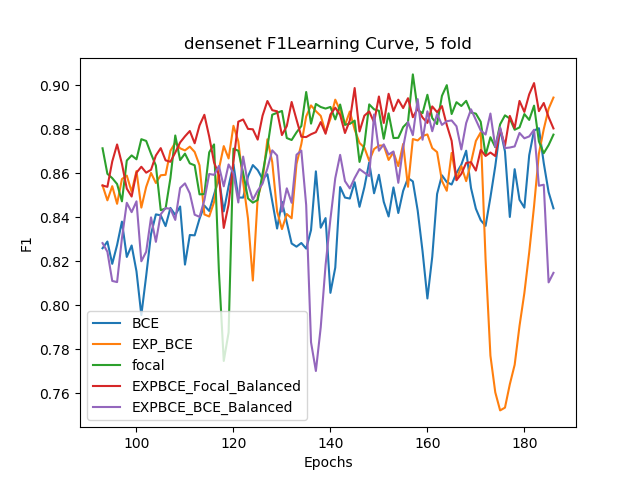
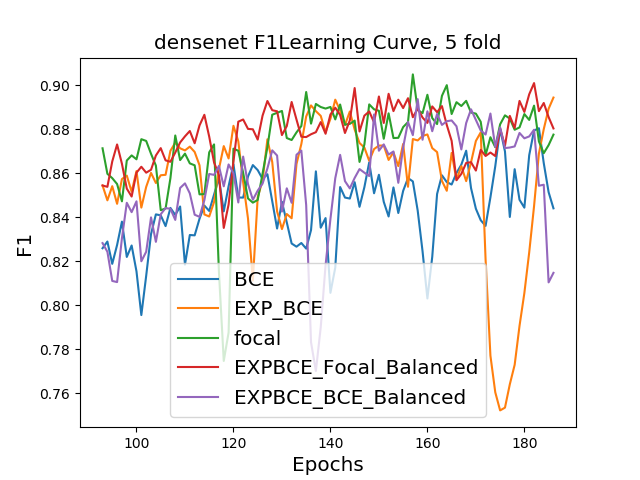
update images

diff --git a/Theory/FLgrad.py b/Theory/FLgrad.py
@@ -9,13 +9,18 @@ y_pos = 2*(1-x)*np.log(x)-(1-x)**2/x
 y_neg = -2*x*np.log(1-x)+x**2/(1-x)
 fig, ax = plt.subplots()
 
-ax.plot(x, y_pos, label=r'$2(1-\hat{y}_i)log(\hat{y}_i)-\frac{(1-\hat{y}_i)^2}{\hat{y}_i}$ (gradient for $-(1-\hat{y}_i)^2*log(\hat{y}_i)$)', lw=2)
-ax.plot(x, y_neg, label=r'$-2\hat{y}_i log(1-\hat{y}_i)+\frac{\hat{y}_i^2}{(1-\hat{y}_i)}$ (gradient for $-(\hat{y}_i)^2*log(1-\hat{y}_i)$)', lw=2)
+ax.plot(x, y_pos, label=r'$2(1-\hat{y}_i)log(\hat{y}_i)-\frac{(1-\hat{y}_i)^2}{\hat{y}_i}$'
+'\n'
+'(gradient for $-(1-\hat{y}_i)^2*log(\hat{y}_i)$)', lw=2)
+ax.plot(x, y_neg, label=r'$-2\hat{y}_i log(1-\hat{y}_i)+\frac{\hat{y}_i^2}{(1-\hat{y}_i)}$ '
+'\n'
+'(gradient for $-(\hat{y}_i)^2*log(1-\hat{y}_i)$)', lw=2)
 
-ax.set(xlim=[-0.05, 1.05], title='Focal loss theoretical learning curve gradient')
-ax.legend(loc='lower right')	
-ax.set_xlabel('$\hat{y}_i$')
-ax.set_ylabel('loss')
+ax.set(xlim=[-0.05, 1.05])
+ax.set_title('Focal loss theoretical learning curve gradient', fontsize = 'x-large')
+ax.legend(loc='lower right', fontsize = 'x-large')	
+ax.set_xlabel('$\hat{y}_i$', fontsize = 'x-large')
+ax.set_ylabel('loss', fontsize = 'x-large')
 Grad_png_file = 'FLgrad.png'
 plt.savefig(Grad_png_file)
 

diff --git a/F1learingRate.py b/F1learingRate.py
@@ -161,14 +161,14 @@ def load_f1_log(args, CViter):
 
 def plot_F1learningCurve(args, CV_iters):
 	learningCurveFile = os.path.join(args.model_dir, args.network)
-	learningCurveFile = os.path.join(learningCurveFile, '{network}-CV{cv_iter}-F1LearningCurve4.PNG'.format(network = args.network, cv_iter = 5))
+	learningCurveFile = os.path.join(learningCurveFile, '{network}-CV{cv_iter}-F1LearningCurve1.PNG'.format(network = args.network, cv_iter = 5))
 	data = load_f1_log(args, CV_iters)
 	
-	plt.plot(range(int(len(data)/10+len(data)/2),len(data)),data[int(len(data)/10+len(data)/2):])
-	plt.legend(get_loss_list())
-	plt.ylabel('F1')
-	plt.xlabel('Epochs')
-	plt.title('{} F1Learning Curve, {} fold'.format(args.network,  5))
+	plt.plot(range(int(len(data)/10)),data[:int(len(data)/10)])
+	plt.legend(get_loss_list(), fontsize = 'x-large')
+	plt.ylabel('F1', fontsize = 'x-large')
+	plt.xlabel('Epochs', fontsize = 'x-large')
+	plt.title('{} F1Learning Curve, {} fold'.format(args.network,  5), fontsize = 'x-large')
 	logging.warning('    Saving Learning Curve to {}\n'.format(learningCurveFile))
 	plt.savefig(learningCurveFile)
 	print(int(len(data)/10),int(len(data)/5),int(len(data)/10+len(data)/2),len(data))

diff --git a/Theory/expcefocagrad.py b/Theory/expcefocagrad.py
@@ -4,18 +4,21 @@ import numpy as np
 import matplotlib.pyplot as plt
 
 
-x = np.linspace(0.01, 0.99, 99)
+x = np.linspace(0.00001, 0.99999, 99999)
 y_pos = - 1/x**2
 y_neg = -2*x*np.log(1-x)+x**2/(1-x)
 fig, ax = plt.subplots()
 
 ax.plot(x, y_pos, label=r'$-\frac{1}{\hat{y}_i^2}$ (gradient for $(\frac{1}{\hat{y}_i}-1)$)', lw=2)
-ax.plot(x, y_neg, label=r'$-2\hat{y}_i log(1-\hat{y}_i)+\frac{\hat{y}_i^2}{(1-\hat{y}_i)}$ (gradient for $-(\hat{y}_i)^2*log(1-\hat{y}_i)$)', lw=2)
+ax.plot(x, y_neg, label=r'$-2\hat{y}_i log(1-\hat{y}_i)+\frac{\hat{y}_i^2}{(1-\hat{y}_i)}$ '
+			"\n"
+			r'(gradient for $-(\hat{y}_i)^2*log(1-\hat{y}_i)$)', lw=2)
 
-ax.set(xlim=[-0.05, 1.05], title='B-EXP_BCE theoretical learning curve gradient')
-ax.legend(loc='lower right')	
-ax.set_xlabel('$\hat{y}_i$')
-ax.set_ylabel('loss')
+ax.set(xlim=[-0.05, 1.05], ylim= [-100, 60])
+ax.set_title('F-EXP_BCE theoretical learning curve gradient', fontsize = 'x-large')
+ax.legend(loc='lower right', fontsize = 'x-large')	
+ax.set_xlabel('$\hat{y}_i$', fontsize = 'x-large')
+ax.set_ylabel('loss', fontsize = 'x-large')
 Grad_png_file = 'expcefocagrad.png'
 plt.savefig(Grad_png_file)
 

diff --git a/Theory/CEFLEXPgrad.py b/Theory/CEFLEXPgrad.py
@@ -4,7 +4,7 @@ import numpy as np
 import matplotlib.pyplot as plt
 
 
-x = np.linspace(0.3, 0.99, 99)
+x = np.linspace(0.01, 0.99, 99)
 y_BCE = - 1/x
 y_FL = 2*(1-x)*np.log(x)-(1-x)**2/x
 y_pos = - 1/x**2
@@ -14,10 +14,11 @@ ax.plot(x, y_BCE, label=r'BCE Gradient ($-\frac{1}{\hat{y}_i}$)', lw=2)
 ax.plot(x, y_FL, label=r'Focal Gradient ($2(1-\hat{y}_i)log(\hat{y}_i)-\frac{(1-\hat{y}_i)^2}{\hat{y}_i}$)', lw=2)
 ax.plot(x, y_pos, label=r'EXP_BCE Gradient ($-\frac{1}{\hat{y}_i^2}$)', lw=2)
 
-ax.set(xlim=[-0.05, 1.05], title='BCE, Focal, EXP_BCE loss gradient comparison 0.3 -- 1')
-ax.legend(loc='lower right')	
-ax.set_xlabel('$\hat{y}_i$')
-ax.set_ylabel('loss')
-LC_png_file = 'CEFLEXPgrad3-1.PNG'
+ax.set(xlim=[-0.05, 1.05], ylim = [-300,1])
+ax.set_title('BCE, Focal, EXP_BCE loss gradient comparison 0 -- 1', fontsize = 'x-large')
+ax.legend(loc='lower right', fontsize = 'x-large')	
+ax.set_xlabel('$\hat{y}_i$', fontsize = 'x-large')
+ax.set_ylabel('loss', fontsize = 'x-large')
+LC_png_file = 'CEFLEXPgrad0-1.PNG'
 plt.savefig(LC_png_file)
 

diff --git a/Theory/expcebcegrad.py b/Theory/expcebcegrad.py
@@ -4,7 +4,7 @@ import numpy as np
 import matplotlib.pyplot as plt
 
 
-x = np.linspace(0.01, 0.99, 99)
+x = np.linspace(0.00001, 0.99999, 99999)
 y_pos = - 1/x**2
 y_neg = 1/(1-x)
 fig, ax = plt.subplots()
@@ -12,10 +12,11 @@ fig, ax = plt.subplots()
 ax.plot(x, y_pos, label=r'$-\frac{1}{\hat{y}_i^2}$ (gradient for $(\frac{1}{\hat{y}_i}-1)$)', lw=2)
 ax.plot(x, y_neg, label=r'$\frac{1}{1-\hat{y}_i}$ (gradient for $-log(1-\hat{y}_i)$)', lw=2)
 
-ax.set(xlim=[-0.05, 1.05], title='B-EXP_BCE theoretical learning curve gradient')
-ax.legend(loc='lower right')	
-ax.set_xlabel('$\hat{y}_i$')
-ax.set_ylabel('loss')
+ax.set(xlim=[-0.05, 1.05], ylim = [-100, 60])
+ax.set_title('B-EXP_BCE theoretical learning curve gradient', fontsize = 'x-large')
+ax.legend(loc='lower right', fontsize = 'x-large')	
+ax.set_xlabel('$\hat{y}_i$', fontsize = 'x-large')
+ax.set_ylabel('loss', fontsize = 'x-large')
 Grad_png_file = 'expcebcegrad.png'
 plt.savefig(Grad_png_file)
 

diff --git a/Theory/CEFLEXP.py b/Theory/CEFLEXP.py
@@ -4,7 +4,7 @@ import numpy as np
 import matplotlib.pyplot as plt
 
 
-x = np.linspace(0.3, 0.99, 99)
+x = np.linspace(0.01, 0.3, 99)
 y_BCE = - np.log(x)
 y_FL = - (1-x)**2*np.log(x)
 y_pos = 1/x-1
@@ -14,10 +14,11 @@ ax.plot(x, y_BCE, label=r'BCE ($-log(\hat{y}_i)$)', lw=2)
 ax.plot(x, y_FL, label=r'Focal ($-(1-\hat{y}_i)^2*log(\hat{y}_i)$)', lw=2)
 ax.plot(x, y_pos, label=r'EXP_BCE ($\frac{1}{\hat{y}_i}-1$)', lw=2)
 
-ax.set(xlim=[-0.05, 1.05], title='BCE, Focal, EXP_BCE loss comparison 0.3 -- 1')
-ax.legend(loc='upper right')	
-ax.set_xlabel('$\hat{y}_i$')
-ax.set_ylabel('loss')
-LC_png_file = 'CEFLEXP3-1.PNG'
+ax.set(xlim=[-0.05, 0.4], ylim=[-1,20])
+ax.set_title('BCE, Focal, EXP_BCE loss comparison 0 -- 0.3', fontsize = 'x-large')
+ax.legend(loc='upper right', fontsize = 'x-large')	
+ax.set_xlabel('$\hat{y}_i$', fontsize = 'x-large')
+ax.set_ylabel('loss', fontsize = 'x-large')
+LC_png_file = 'CEFLEXP0-3.PNG'
 plt.savefig(LC_png_file)
 

diff --git a/Theory/BCEGradient.py b/Theory/BCEGradient.py
@@ -4,7 +4,7 @@ import numpy as np
 import matplotlib.pyplot as plt
 
 
-x = np.linspace(0.01, 0.99, 99)
+x = np.linspace(0.00001, 0.99999, 99999)
 y_pos = - 1/x
 y_neg = 1/(1-x)
 fig, ax = plt.subplots()
@@ -12,10 +12,11 @@ fig, ax = plt.subplots()
 ax.plot(x, y_pos, label=r'$-\frac{1}{\hat{y}_i}$ (gradient for $-log(\hat{y}_i)$)', lw=2)
 ax.plot(x, y_neg, label=r'$\frac{1}{1-\hat{y}_i}$ (gradient for $-log(1-\hat{y}_i)$)', lw=2)
 
-ax.set(xlim=[-0.05, 1.05], title='BCE theoretical learning curve gradient')
-ax.legend(loc='lower right')	
-ax.set_xlabel('$\hat{y}_i$')
-ax.set_ylabel('loss')
+ax.set(xlim=[-0.05, 1.05], ylim= [-60,60])
+ax.set_title('BCE theoretical learning curve gradient', fontsize = 'x-large')
+ax.legend(loc='lower right', fontsize = 'x-large')	
+ax.set_xlabel('$\hat{y}_i$', fontsize = 'x-large')
+ax.set_ylabel('loss', fontsize = 'x-large')
 Grad_png_file = 'BCEGradient.png'
 plt.savefig(Grad_png_file)
 

diff --git a/Theory/FL.py b/Theory/FL.py
@@ -4,7 +4,7 @@ import numpy as np
 import matplotlib.pyplot as plt
 
 
-x = np.linspace(0.01, 0.99, 99)
+x = np.linspace(0.00001, 0.99999, 99999)
 y_pos = - (1-x)**2*np.log(x)
 y_neg = - x**2*np.log(1-x)
 fig, ax = plt.subplots()
@@ -12,10 +12,11 @@ fig, ax = plt.subplots()
 ax.plot(x, y_pos, label=r'$-(1-\hat{y}_i)^2*log(\hat{y}_i)$', lw=2)
 ax.plot(x, y_neg, label=r'$-(\hat{y}_i)^2*log(1-\hat{y}_i)$', lw=2)
 
-ax.set(xlim=[-0.05, 1.05], title='Focal Loss theoretical learning curve')
-ax.legend(loc='upper center')	
-ax.set_xlabel('$\hat{y}_i$')
-ax.set_ylabel('loss')
+ax.set(xlim=[-0.05, 1.05], ylim = [-1, 12])
+ax.set_title('Focal Loss theoretical learning curve', fontsize = 'x-large')
+ax.legend(loc='upper center', fontsize = 'x-large')	
+ax.set_xlabel('$\hat{y}_i$', fontsize = 'x-large')
+ax.set_ylabel('loss', fontsize = 'x-large')
 LC_png_file = 'FL.png'
 plt.savefig(LC_png_file)
 

diff --git a/Evaluation_Matix.py b/Evaluation_Matix.py
@@ -237,10 +237,11 @@ def plot_learningCurve(args, CV_iters):
 		tprs_lower = np.maximum(mean_loss - std_loss, 0)[:int(1001/dev)]
 		ax.fill_between(mean_Epoch[:int(1001/dev)], tprs_lower, tprs_upper, color = color[loss], alpha=.2)
 			
-	ax.set_ylabel('AUC')
-	ax.set_xlabel('Epochs')
-	ax.legend(loc="lower right")
-	ax.set(xlim=[-0.2, min_len/dev-1], title='{} Learning Curve, {} fold 1/{}'.format(args.network, CV_iters, dev))
+	ax.set_ylabel('AUC', fontsize = 'x-large')
+	ax.set_xlabel('Epochs', fontsize = 'x-large')
+	ax.legend(loc="lower right", fontsize = 'x-large')
+	ax.set(xlim=[-0.2, min_len/dev-1])
+	ax.set_title('{} Learning Curve, {} fold 1/{}'.format(args.network, CV_iters, dev), fontsize = 'x-large')
 	logging.warning('    Saving Learning Curve to {}\n'.format(learningCurveFile))
 	plt.savefig(learningCurveFile)
 

diff --git a/Theory/BCE.py b/Theory/BCE.py
@@ -4,7 +4,7 @@ import numpy as np
 import matplotlib.pyplot as plt
 
 
-x = np.linspace(0.01, 0.99, 99)
+x = np.linspace(0.00001, 0.99999, 99999)
 y_pos = - np.log(x)
 y_neg = - np.log(1-x)
 fig, ax = plt.subplots()
@@ -12,10 +12,11 @@ fig, ax = plt.subplots()
 ax.plot(x, y_pos, label=r'$-log(\hat{y}_i)$', lw=2)
 ax.plot(x, y_neg, label=r'$-log(1-\hat{y}_i)$', lw=2)
 
-ax.set(xlim=[-0.05, 1.05], title='BCE theoretical learning curve')
-ax.legend(loc='upper center')	
-ax.set_xlabel('$\hat{y}_i$')
-ax.set_ylabel('loss')
+ax.set(xlim=[-0.05, 1.05])
+ax.set_title('BCE theoretical learning curve', fontsize = 'x-large')
+ax.legend(loc='upper center', fontsize = 'x-large')	
+ax.set_xlabel('$\hat{y}_i$', fontsize = 'x-large')
+ax.set_ylabel('loss', fontsize = 'x-large')
 LC_png_file = 'BCE.png'
 plt.savefig(LC_png_file)
 

diff --git a/Theory/expcegrad.py b/Theory/expcegrad.py
@@ -12,10 +12,11 @@ fig, ax = plt.subplots()
 ax.plot(x, y_pos, label=r'$-\frac{1}{\hat{y}_i^2}$ (gradient for $(\frac{1}{\hat{y}_i}-1)$)', lw=2)
 ax.plot(x, y_neg, label=r'$\frac{1}{(1-\hat{y}_i)^2}$ (gradient for $(\frac{1}{1-\hat{y}_i}-1)$)', lw=2)
 
-ax.set(xlim=[-0.05, 1.05], title='EXP_BCE theoretical learning curve gradient')
-ax.legend(loc='lower right')	
-ax.set_xlabel('$\hat{y}_i$')
-ax.set_ylabel('loss')
+ax.set(xlim=[-0.05, 1.05], ylim = [-100, 100])
+ax.set_title('EXP_BCE theoretical learning curve gradient', fontsize = 'x-large')
+ax.legend(loc='lower right', fontsize = 'x-large')	
+ax.set_xlabel('$\hat{y}_i$', fontsize = 'x-large')
+ax.set_ylabel('loss', fontsize = 'x-large')
 Grad_png_file = 'expcegrad.png'
 plt.savefig(Grad_png_file)
 

diff --git a/Theory/expcebce.py b/Theory/expcebce.py
@@ -9,13 +9,14 @@ y_pos = 1/x-1
 y_neg = - np.log(1-x)
 fig, ax = plt.subplots()
 
-ax.plot(x, y_pos, label=r'$\frac{1}{\hat{y}_i}-1)$', lw=2)
+ax.plot(x, y_pos, label=r'$\frac{1}{\hat{y}_i}-1$', lw=2)
 ax.plot(x, y_neg, label=r'$-log(1-\hat{y}_i)$', lw=2)
 
-ax.set(xlim=[-0.05, 1.05], title='B-EXP_BCE theoretical learning curve')
-ax.legend(loc='upper right')	
-ax.set_xlabel('$\hat{y}_i$')
-ax.set_ylabel('loss')
+ax.set(xlim=[-0.05, 1.05], ylim =[-1,30])
+ax.set_title('B-EXP_BCE theoretical learning curve', fontsize = 'x-large')
+ax.legend(loc='upper right', fontsize = 'x-large')	
+ax.set_xlabel('$\hat{y}_i$', fontsize = 'x-large')
+ax.set_ylabel('loss', fontsize = 'x-large')
 LC_png_file = 'expcebce.png'
 plt.savefig(LC_png_file)
 
